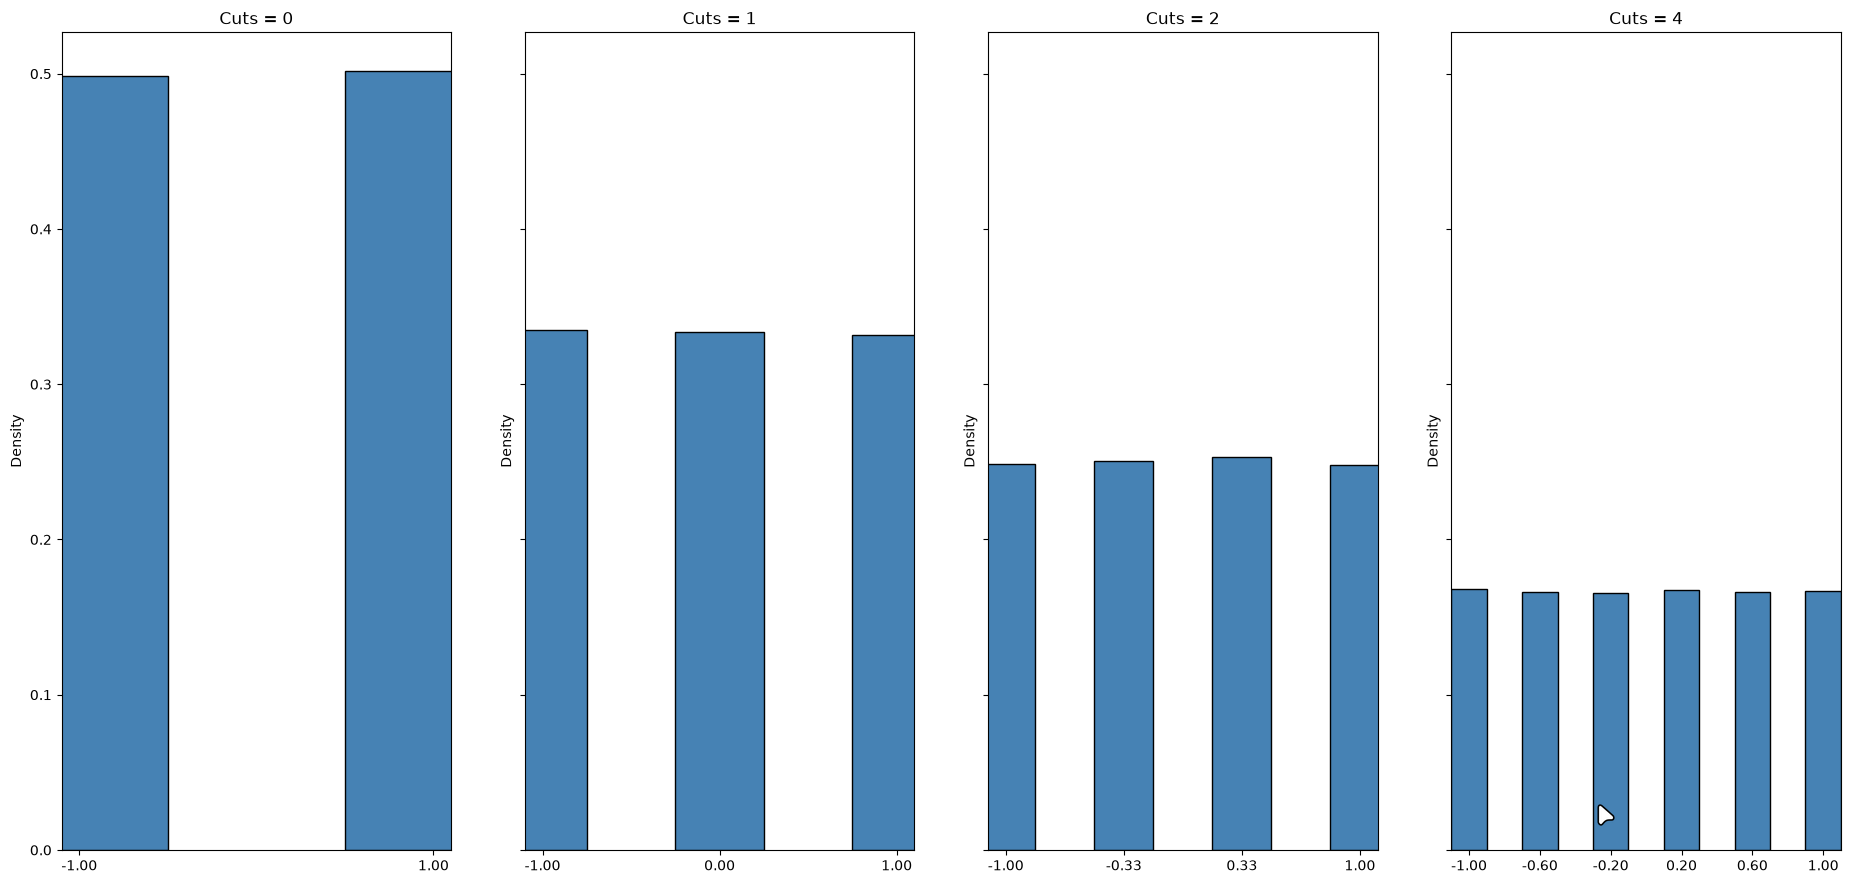
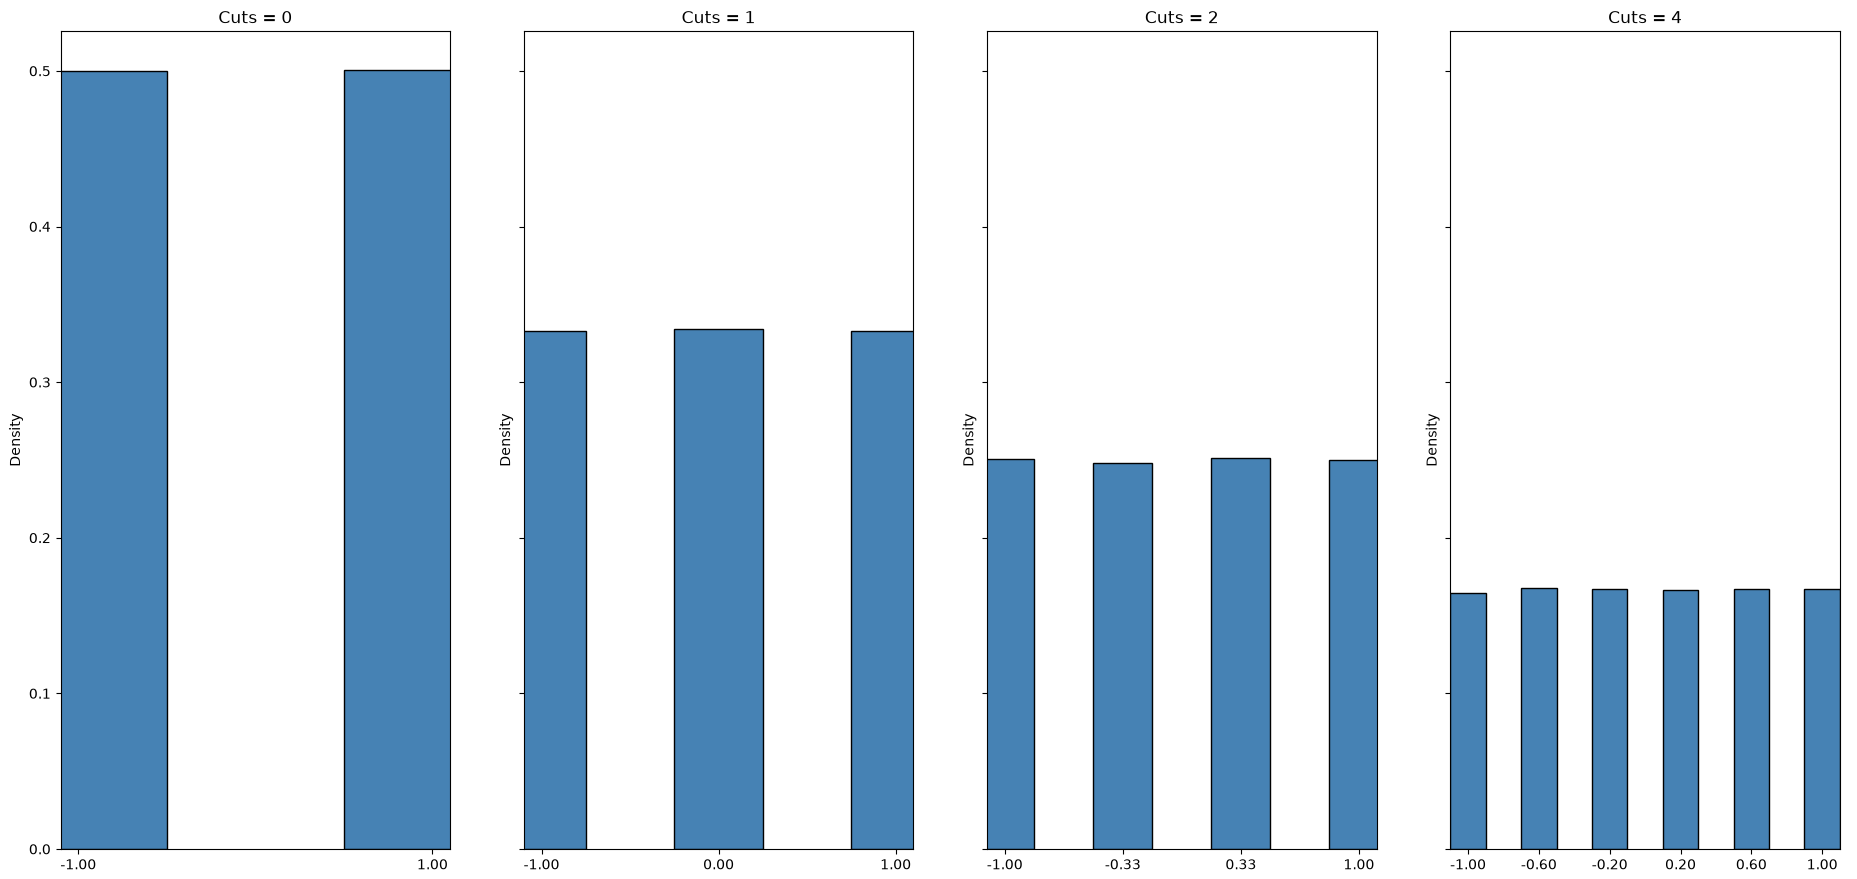
docs: fix stuff

diff --git a/README.md b/README.md
@@ -123,10 +123,10 @@ value to its distribution.
 ![Discrete Distribution](./assets/discrete_distribution.png)
 
 Unlike the other distributions, discrete distribution is not continous. It
-picks number randomly based on a pre-determined set of possible numbers. This set of
-numbers can be configured using `/carpet ibDiscreteCuts <value>`. It's better
-to show the pattern than explaining discrete random numbers are generated in
-IBCarpet.
+picks number randomly based on a pre-determined set of possible numbers. This
+set of numbers can be configured using `/carpet ibDiscreteCuts <value>`. It's
+better to show the pattern than explaining how discrete random numbers are
+generated in IBCarpet.
 
 Here's the pattern:
 